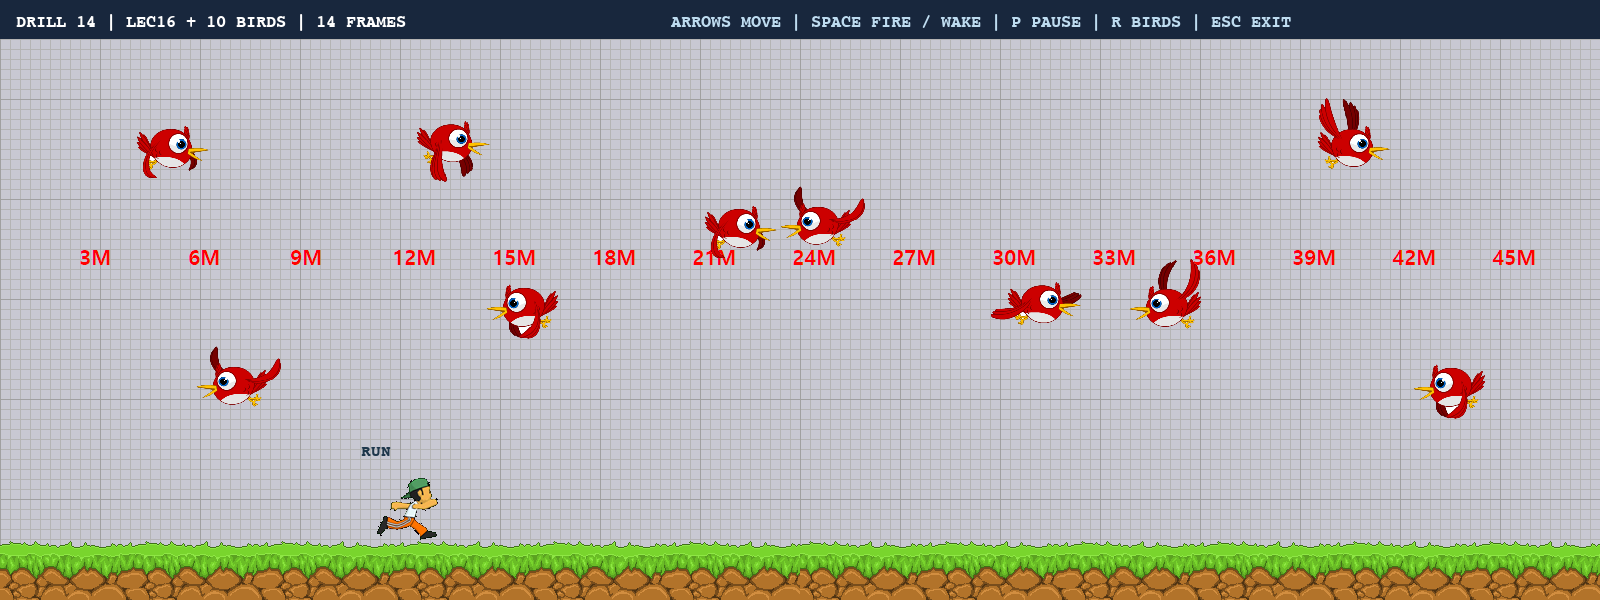
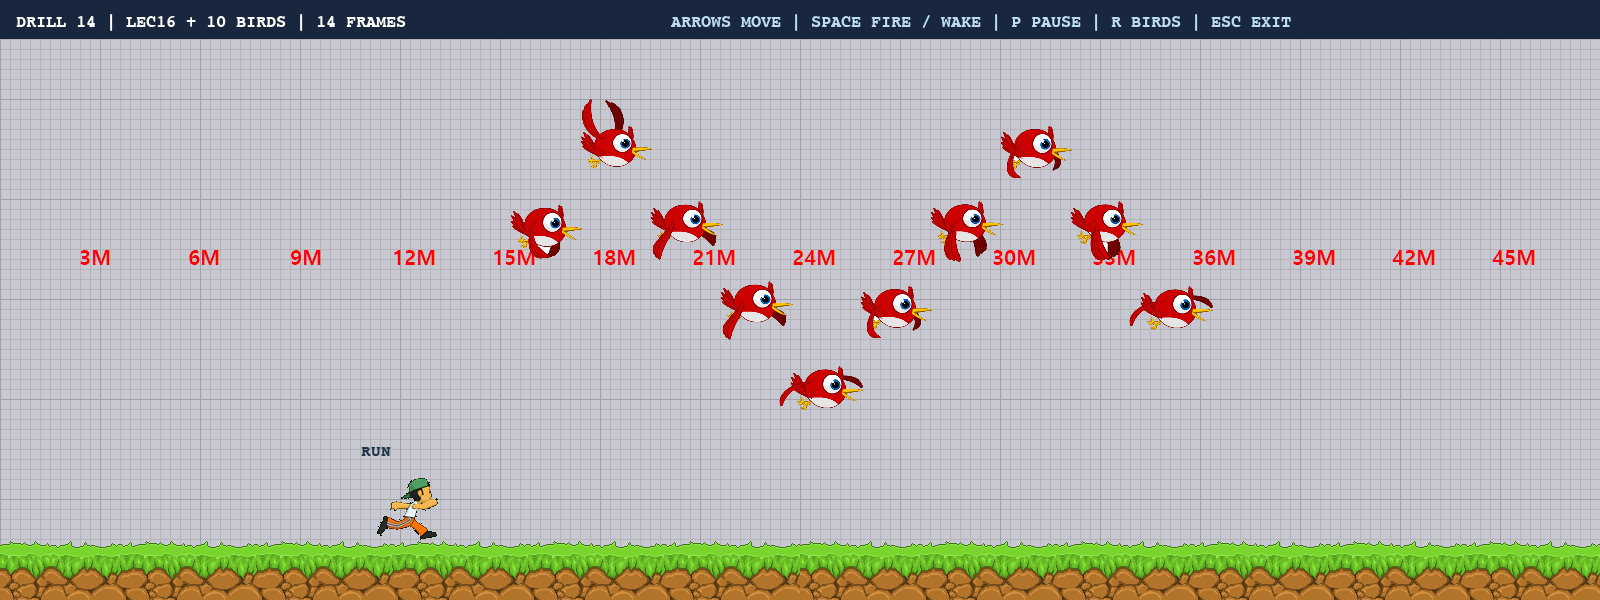
완성: 열 마리 새떼의 동시 비행 원리와 전체 가시성 검증 결과 기록
[수업 코드 기반]
LEC16의 소년 상태 머신·잔디·눈금자·포물선 공과 모드 스택·게임 월드 구조를 유지한 1600×600 화면에 새떼를 추가한다. 방향키로 소년을 움직이고 SPACE로 공을 발사하거나 잠에서 깨운다. P는 전체 월드 정지·재개, R은 새떼 재설정이다.

[14프레임 날갯짓]
원본 bird_animation.png는 918×506이며 실제 칸 간격은 가로 182·세로 170이다. 마지막 행은 높이 166으로 자르고 우측 여백과 마지막 빈 칸을 제외한다. 0~13을 5로 나눈 몫과 나머지로 행·열을 구하고 이미지 높이에서 칸 아래쪽을 빼 pico2d의 하단 원점으로 변환한다. 위상에 12×경과초를 누적하고 14로 나눈 나머지의 정수 프레임을 그려 약 1.167초 주기를 유지한다. 정수 경계의 미세한 부동소수점 오차를 보정하고 이미지는 열 마리가 공유한다.

[새떼 동시 이동과 열 마리 가시성]
새떼의 공통 중심 한 개를 초당 200픽셀로 이동시킨다. 각 새의 x는 중심 x에 고정 상대 x를 더한 값이고 일부 높이는 공유한다. 모든 새의 방향을 중심 방향으로 맞춰 한 프레임에 동시에 반전한다. 가장 왼쪽·오른쪽 새의 상대 위치와 스프라이트 반너비를 사용해 중심 이동 범위를 줄이므로 왕복 내내 10마리 모두 화면 안에 보인다. 중심 왕복 경로는 길이 2L 주기의 삼각파로 반사해 경계 초과 이동과 긴 시간 간격을 처리한다. 실제 경과초는 perf_counter로 업데이트 전에 측정하고 Flock 복합 객체가 새를 한 번씩만 갱신·출력한다.

[최종 검증]
자동 검증 10개와 실제 SDL 창 검증을 통과했다. 30·60·144fps에서 30초간 열 마리 전체 가시성·동일 방향·간격 유지와 양쪽 반사를 확인했다. 프레임률별 동일 시간 후 새떼 위치와 날갯짓 위상이 일치한다. 기존 소년 이동·양방향 공 발사·수면과 깨우기·전체 정지와 재개·재설정 후 중복 방지·ESC 종료 및 월드·모드 스택·이미지 정리도 확인했다. 최종 화면, PRD와 README, 코드·제공 원본 이미지·폰트·의존성과 검증 코드를 함께 업로드한다.

diff --git a/README.md b/README.md
@@ -1,6 +1,6 @@
 # Drill-14 · 새 10마리의 비행 애니메이션
 
-**이전 LEC16 실습 코드를 기반으로 소년·잔디·눈금자·공이 있는 화면에 새 10마리를 추가한 과제다.** 소년의 상태 머신과 이동·수면·공 발사, 모드 스택과 게임 월드 구조를 유지한다. 제공된 `bird_animation.png`의 14프레임을 사용하고 새의 이동과 날갯짓 모두 실제 경과 시간에 비례한다. 새들은 일부 높이를 공유하며 서로 다른 초기 x에 배치하고, 새마다 별도 줄이나 구획을 만들지 않는다.
+**이전 LEC16 실습 코드를 기반으로 소년·잔디·눈금자·공이 있는 화면에 새 10마리를 추가한 과제다.** 새떼 전체가 같은 속도·방향으로 비행하고 동시에 좌우로 방향을 바꾸며, 항상 10마리 모두 화면 안에 보인다. 소년의 상태 머신과 이동·수면·공 발사, 모드 스택과 게임 월드 구조를 유지한다. 제공된 `bird_animation.png`의 14프레임을 사용하고 이동과 날갯짓 모두 실제 경과 시간에 비례한다. 새들은 일부 높이를 공유하고 서로 다른 x 간격을 유지하며, 새마다 별도 줄이나 구획을 만들지 않는다.
 
 ![새 10마리 비행 화면](screenshots/flight.png)
 
@@ -22,7 +22,7 @@ python main.py
 | ← / → | 소년 좌우 이동 |
 | SPACE | 소년의 공 발사 / 수면 상태에서 깨우기 |
 | P | 소년·공·새 전체 일시 정지/재개 |
-| R | 새 10마리의 위치·속도·위상 재설정 |
+| R | 새떼 위치·배치·날갯짓 위상 재설정 |
 | ESC 또는 창 닫기 | 자원 정리 후 종료 |
 
 ## 정확한 비행 애니메이션 구현 원리
@@ -30,9 +30,9 @@ python main.py
 1. **실제 스프라이트 간격 확인:** 원본은 918×506이다. 불투명 픽셀의 분포를 확인하면 새의 기준 위치는 가로 182픽셀 간격이며 행은 위쪽 기준 0/170/340에서 시작한다. 우측 8픽셀은 여백이다. 전체 크기를 단순히 5×3으로 등분하면 이웃 새의 날개나 꼬리가 섞인다. 마지막 행 높이는 이미지 끝에 맞춰 166픽셀로 자른다.
 2. **14칸만 순서대로 재생:** `row, column = divmod(frame, 5)`로 행 우선 순서를 구한다. 프레임 번호를 0~13으로 제한하여 셋째 행 마지막 빈 칸은 사용하지 않는다. 이미지 상단 기준 행 좌표를 pico2d 하단 원점에 맞게 `image.h - bottom`으로 변환한다.
 3. **날갯짓 속도 고정:** `phase = (phase + 12 × frame_time) % 14`로 위상을 갱신한다. 정수 부분을 그릴 프레임 번호로 사용한다. 초당 12프레임이므로 전체 날갯짓 주기는 `14 / 12 ≈ 1.167초`다. 화면 FPS가 바뀌어도 주기는 유지된다.
-4. **실제 시간 기반 이동:** 각 새의 속도는 초당 140~230픽셀이다. 이동량은 `speed × frame_time`으로 계산한다. 프레임당 고정 픽셀을 더하지 않는다. 경과 시간은 `time.perf_counter()`로 업데이트 전에 측정한다.
-5. **경계의 초과 이동 보존:** 좌우 이동 구간 길이를 L이라 할 때 왕복 거리를 2L 주기로 누적한 뒤 접는다. 오른쪽 구간이면 왼쪽으로, 왼쪽 구간이면 오른쪽으로 움직인다. 큰 시간 간격으로 경계를 여러 번 넘어도 초과 이동량이 사라지지 않는다. 스프라이트 반너비를 고려한 구간을 사용하고 왼쪽 비행에는 수평 반전을 적용한다.
-6. **수업 게임 월드와 자원 공유:** 새 10마리가 한 장의 이미지를 공유하고 소년·공과 같은 `game_world`의 오브젝트 레이어에서 갱신·출력된다. 잔디·눈금자는 배경 레이어다. P 정지 중에는 전체 월드 업데이트를 멈추고 프레임 시간 측정은 계속해서 재개할 때 위치가 뛰지 않는다. 소년의 대기 시간도 정지 중에는 흐르지 않는다. `finally`에서 모드 스택, 월드, 공용 이미지와 캔버스를 정리한다.
+4. **새떼의 공통 이동:** 새떼 중심 하나를 초당 200픽셀로 움직이고 각 새의 위치를 `중심 x + 개별 상대 x`로 계산한다. 이동량은 `speed × frame_time`이다. 방향도 중심의 방향을 공유하므로 열 마리가 한꺼번에 이동·반전한다. 날갯짓 시작 위상은 서로 다르다. 경과 시간은 `time.perf_counter()`로 업데이트 전에 측정한다.
+5. **열 마리 가시성과 반사:** 가장 왼쪽·오른쪽 새의 상대 위치와 스프라이트 반너비를 고려해 공통 중심의 이동 구간을 계산한다. 이 구간 안에서는 열 마리가 전부 화면 안에 남는다. 중심 왕복 거리를 2L 주기로 누적한 뒤 접어 초과 거리를 보존한다. 큰 시간 간격의 여러 번 반사도 처리하며, 왼쪽 비행에는 모든 새를 동시에 수평 반전한다.
+6. **수업 게임 월드와 자원 공유:** 새 10마리가 한 장의 이미지를 공유하며 `Flock` 복합 객체 하나가 열 마리를 갱신·출력한다. 새떼는 소년·공과 같은 `game_world`의 오브젝트 레이어에 등록하고 잔디·눈금자는 배경 레이어다. P 정지 중에는 전체 월드 업데이트를 멈추고 시간 측정은 계속해 재개할 때 위치가 뛰지 않는다. `finally`에서 모드 스택, 월드, 공용 이미지와 캔버스를 정리한다.
 
 ## 검증
 
@@ -41,7 +41,7 @@ python -m unittest -v
 python verify_render.py
 ```
 
-- 자동 검증 **7개 통과**: 30/60/144fps에서 10초 후 위치·방향·날갯짓 위상 동일, 좌우 반사의 초과 거리 보존, 큰 시간 간격의 여러 번 반사, 정확한 주기 순환, 14프레임 및 자르기 좌표, 0초 업데이트, 좌우 반전.
+- 자동 검증 **10개 통과**: 기존 7개 새 애니메이션 검증에 더해, 30/60/144fps에서 30초간 열 마리 전체 가시성·대형 유지, 양쪽 경계의 동시 방향 전환, 새떼 이동의 프레임률 독립성을 검증한다. 정확한 주기에서 부동소수점 오차로 프레임이 한 칸 뒤처지지 않게 정수 경계를 보정한다.
 - 실제 SDL 창 검증 **통과**: 소년·잔디·눈금자와 새 10마리 동시 출력, 일부 높이 공유와 초기 x 분산, 화면 밖 잘림 방지, 방향키 이동, SPACE 양방향 공 발사·수면 깨우기, P 전체 정지/재개, R 재배치 후 새 중복 없음, ESC 종료, 월드·모드 스택·이미지 정리.
 - 저장소 바깥 작업 폴더에서 실행한 실제 검증도 통과했다.
 - 화면을 직접 확인하며 프레임 경계의 픽셀 혼입을 수정했다. `verify_render.py`는 약 1.5초 동안 실행한 뒤 종료하며 `screenshots/flight.png`, `screenshots/paused.png`를 갱신한다.
@@ -57,11 +57,12 @@ python verify_render.py
 | `play_mode.py` | 기존 소년·잔디 실습과 새 10마리를 같은 월드에 통합 |
 | `boy.py`, `grass.py`, `ball.py`, `game_world.py` | LEC16 기반 소년 상태 머신·배경·포물선 공·레이어 관리 |
 | `bird.py` | 비행 모델, 프레임 계산, 좌표 변환, 좌우 반전 |
+| `flock.py` | 새 10마리의 공통 중심·간격·동시 반사·전체 가시성 |
 | `bird_animation.png` | 제공된 새 스프라이트 원본 |
 | `animation_sheet.png`, `grass.png`, `ruler.png`, `ball21x21.png`, `ball41x41.png` | 기존 실습의 소년·배경·공 원본 이미지 |
 | `ENCR10B.TTF` | 화면 안내용 폰트 |
 | `PRD.md` | 개발 기획·요구사항·검증 계획 |
-| `test_bird.py`, `verify_render.py` | 자동 검증 및 실제 창 검증 |
+| `test_bird.py`, `test_flock.py`, `verify_render.py` | 새와 새떼 자동 검증 및 실제 창 검증 |
 
 ## 개발 이력 및 제출
 
